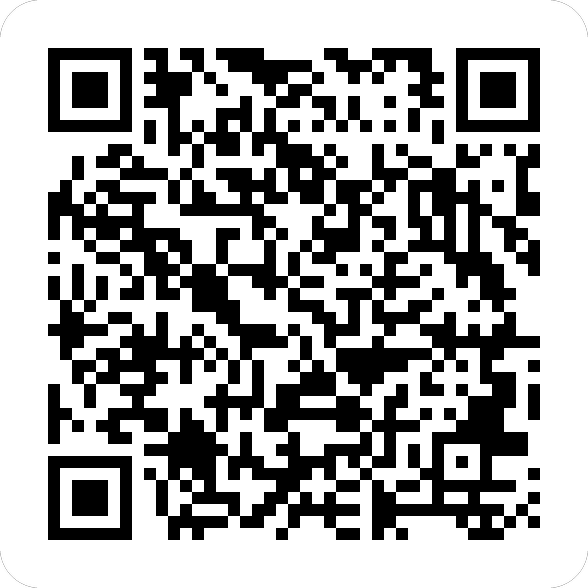
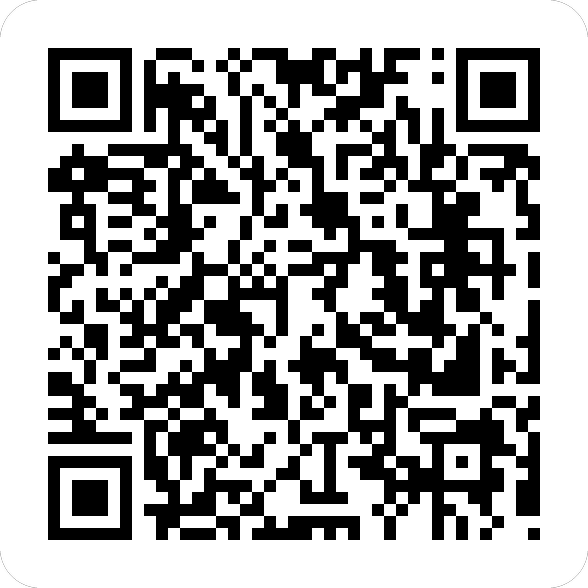
Report a problem goes to our issue tracker, and prose survives becoming XML
The "REPORT A PROBLEM" QR in Settings encoded accounts.tofa.tv/support, taken
from the Apple TV app. A bug in THIS add-on is not something tofa's support
desk can act on, and it is the kind of problem that screen gets reached for,
so the reports were arriving where nobody could do anything with them. It now
encodes this repository's issues. Account and server trouble still belongs to
tofa, and the caption says which is which rather than leaving one address to
carry both meanings.

The card keeps its measured geometry: 50 bytes against QR version 6's 58-byte
budget at error correction H, so the symbol stays 41x41 and the 292px card the
Apple TV app uses is unchanged. Regenerating also re-emitted qr-account.png
BYTE-IDENTICALLY, which is the check that says this generator is deterministic
on this machine and only the one code moved.

WHAT IT BROKE, and the real fix. `release.py sync` copies the newest changelog
entry into addon.xml's <news> verbatim, and this entry names a settings page --
"Privacy & About". A bare `&` makes addon.xml not well-formed, which stopped
check_xml and every suite that parses the manifest. The changelog is a text
file nobody thinks of as markup and the add-on's own pages are called "Privacy
& About" and "Audio & Subtitles", so this was waiting to happen to whoever
wrote about them first.

_set_news now escapes, news_in_xml unescapes, and the ROUND TRIP is what is
tested: escaping without the inverse would make `check` report a freshly
[…]

Changed region(s): [[0.0612, 0.0612, 0.9184, 0.9184]]

diff --git a/tests/test_news_escaping.py b/tests/test_news_escaping.py
@@ -1,0 +1,106 @@
+# -*- coding: utf-8 -*-
+"""The changelog is prose; `<news>` is XML. Something has to escape it.
+
+`release.py sync` copies the newest changelog entry into `addon.xml`'s
+`<news>`. The changelog is a plain text file nobody thinks of as markup, and
+the add-on's own settings pages are called "Privacy & About" and "Audio &
+Subtitles" -- so the moment a release note names one, a bare `&` lands in
+addon.xml and the file stops being well-formed.
+
+That is not a silent failure: check_xml stops dead, and so does every suite
+that parses addon.xml. It is a CONFUSING one, because nothing about writing a
+changelog line suggests you just broke the manifest. It happened on 0.9.3.
+
+The round trip is what matters, not the escaping alone: `check` compares the
+`<news>` body against the changelog to decide whether the file is stale, so
+escaping on write without unescaping on read would report a freshly synced
+file as drifted for ever.
+
+Run:  python3 test_news_escaping.py
+"""
+import pathlib
+import sys
+import xml.etree.ElementTree as ET
+
+sys.path.insert(0, str(pathlib.Path(__file__).resolve().parent.parent / "tools"))
+import release  # noqa: E402
+
+CHECKS = FAILED = 0
+
+
+def check(name, ok, detail=""):
+    global CHECKS, FAILED
+    CHECKS += 1
+    if ok:
+        print("PASS  %s" % name)
+    else:
+        FAILED += 1
+        print("FAIL  %s%s" % (name, ("  -- " + detail) if detail else ""))
+
+
+SHELL = ('<?xml version="1.0" encoding="UTF-8" standalone="yes"?>\n'
+         '<addon id="plugin.video.tofa" version="0.0.1">\n'
+         '  <extension point="xbmc.addon.metadata">\n'
+         '    <assets>\n      <icon>icon.png</icon>\n    </assets>\n'
+         '  </extension>\n</addon>\n')
+
+# Every character that cannot appear as itself, plus the real-world case.
+HOSTILE = "\n".join([
+    "- Settings -> Privacy & About now opens the issue tracker.",
+    "- Audio & Subtitles: a <track> is picked by language & flags.",
+    "- A > B, and 5 < 6.",
+])
+
+
+def main():
+    written = release._set_news(SHELL, HOSTILE)
+
+    # 1. The manifest must still parse. This is the failure that stopped a
+    #    release: check_xml and every addon.xml-parsing suite died at once.
+    try:
+        ET.fromstring(written)
+        parsed = True
+    except ET.ParseError as exc:
+        parsed = False
+        print("      parse error: %s" % exc)
+    check("addon.xml still parses with & < > in the changelog", parsed)
+
+    check("the raw ampersand does not survive into the file",
+          "& " not in written.split("<news>")[1].split("</news>")[0],
+          "a bare & is still in <news>")
+
+    # 2. ...and the round trip gives the changelog back unchanged, or `check`
+    #    reports a freshly synced file as stale for ever.
+    back = release.news_in_xml(written)
+    check("what comes back equals what went in", back == HOSTILE,
+          "%r != %r" % (back, HOSTILE))
+
+    # 3. The escaper's own ordering trap: & must go first on the way out and
+    #    last on the way back, or the escapes escape each other.
+    check("&amp; does not become &amp;amp;",
+          release._xml_escape("&amp;") == "&amp;amp;")
+    check("...and unescapes back to what it was",
+          release._xml_unescape(release._xml_escape("&amp;")) == "&amp;")
+    check("a plain line is untouched",
+          release._xml_escape("nothing special here") == "nothing special here")
+
+    # 4. The real 0.9.3 entry, which is what actually broke.
+    real = "- Report a problem now opens Settings -> Privacy & About."
+    out = release._set_news(SHELL, real)
+    try:
+        ET.fromstring(out)
+        ok = release.news_in_xml(out) == real
+    except ET.ParseError:
+        ok = False
+    check("the 0.9.3 entry that broke this now survives the round trip", ok)
+
+    print()
+    if FAILED:
+        print("FAIL: %d of %d" % (FAILED, CHECKS))
+        return 1
+    print("news escaping: prose survives becoming XML (%d checks)" % CHECKS)
+    return 0
+
+
+if __name__ == "__main__":
+    raise SystemExit(main())

diff --git a/tools/release.py b/tools/release.py
@@ -260,12 +260,36 @@ def _set_version(xml: str, version: str) -> str:
                   lambda m: m.group(1) + version + m.group(3), xml, count=1, flags=re.S)
 
 
+def _xml_escape(text: str) -> str:
+    """The three characters that cannot appear as themselves in element text.
+
+    Ampersand FIRST, or the escapes escape each other."""
+    return (text.replace("&", "&amp;")
+                .replace("<", "&lt;")
+                .replace(">", "&gt;"))
+
+
+def _xml_unescape(text: str) -> str:
+    """The inverse. Ampersand LAST, for the same reason."""
+    return (text.replace("&lt;", "<")
+                .replace("&gt;", ">")
+                .replace("&amp;", "&"))
+
+
 def _set_news(xml: str, news: str) -> str:
     """Replace <news> if present, otherwise add it before <assets>.
 
     The body is indented to sit under the tag rather than jammed against it,
-    which is how every other block in this file is written."""
-    body = "\n" + "\n".join("      " + line if line else ""
+    which is how every other block in this file is written.
+
+    ESCAPED, because the changelog is prose and `<news>` is XML. A release note
+    naming a settings page -- "Privacy & About", "Audio & Subtitles" -- carries
+    a bare `&`, which makes addon.xml not well-formed. That is not a quiet
+    failure (check_xml and every suite that parses addon.xml stop dead) but it
+    IS a confusing one, because the bad character came from a text file nobody
+    thinks of as markup. news_in_xml unescapes on the way back so the
+    staleness comparison still sees the changelog's own text."""
+    body = "\n" + "\n".join("      " + _xml_escape(line) if line else ""
                             for line in news.splitlines()) + "\n    "
     if re.search(r"<news>.*?</news>", xml, re.S):
         return re.sub(r"<news>.*?</news>", lambda m: "<news>" + body + "</news>",
@@ -312,7 +336,7 @@ def news_in_xml(xml: str) -> str | None:
     match = re.search(r"<news>(.*?)</news>", xml, re.S)
     if not match:
         return None
-    return textwrap.dedent(match.group(1).strip("\n")).strip()
+    return _xml_unescape(textwrap.dedent(match.group(1).strip("\n")).strip())
 
 
 # ------------------------------------------------------------------ actions --

diff --git a/plugin.video.tofa/resources/lib/windows/main.py b/plugin.video.tofa/resources/lib/windows/main.py
@@ -6095,9 +6095,15 @@ class MainWindow(focusmemory.FocusMemory, kodigui.ControlledWindow):
         self.settings_licences_list.addItems([licences])
 
         self.setProperty("settings_version", kodigui.ADDON.getAddonInfo("version"))
+        # Routed to THIS add-on's issue tracker, not tofa's support desk: a
+        # bug in the Kodi client is not something they can act on, and it is
+        # the kind of problem this screen gets reached for. Account and server
+        # trouble still belongs to tofa, so the caption says which is which
+        # rather than leaving the viewer to guess from one address.
         self.setProperty("settings_support_caption",
-                         "Scan to report a problem, or visit "
-                         "accounts.tofa.tv/support in a browser.")
+                         "Scan to report a problem with this add-on. Account "
+                         "or server trouble goes to tofa instead, at "
+                         "accounts.tofa.tv/support.")
 
     def _settings_licences_clicked(self):
         """The attribution the bundled licences require, not their full text.

diff --git a/tools/gen_qr_assets.py b/tools/gen_qr_assets.py
@@ -44,7 +44,15 @@ from PIL import Image, ImageDraw
 # phone that has scanned one lands in the same place from either client.
 QR_URLS: dict[str, str] = {
     "account": "https://app.tofa.tv/account",
-    "support": "https://accounts.tofa.tv/support",
+    # DELIBERATELY NOT the Apple TV app's `accounts.tofa.tv/support`. A problem
+    # with THIS add-on is not something tofa's support desk can fix, and the
+    # reports were arriving where nobody could act on them. Ours goes to the
+    # issue tracker of the repository the add-on is built from. Account and
+    # server problems still belong to tofa, which is what the caption says.
+    #
+    # 50 bytes against version 6's 58-byte budget at error correction H, so
+    # the card keeps the measured geometry below rather than growing a version.
+    "support": "https://github.com/cinema-ONE/tofa-for-kodi/issues",
 }
 
 # See the module docstring -- every one of these is measured, not chosen.
